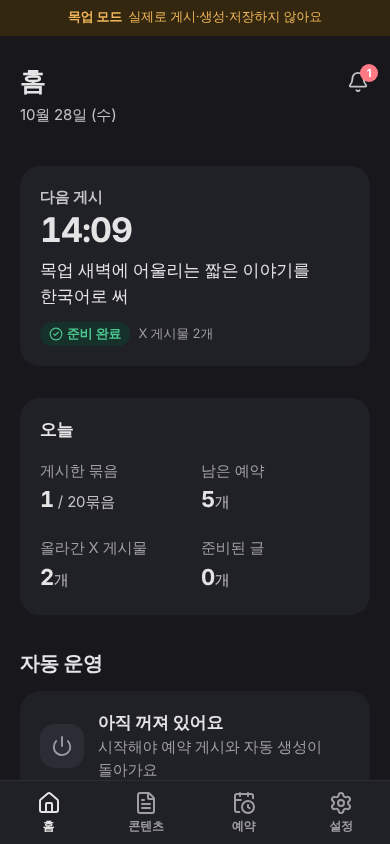
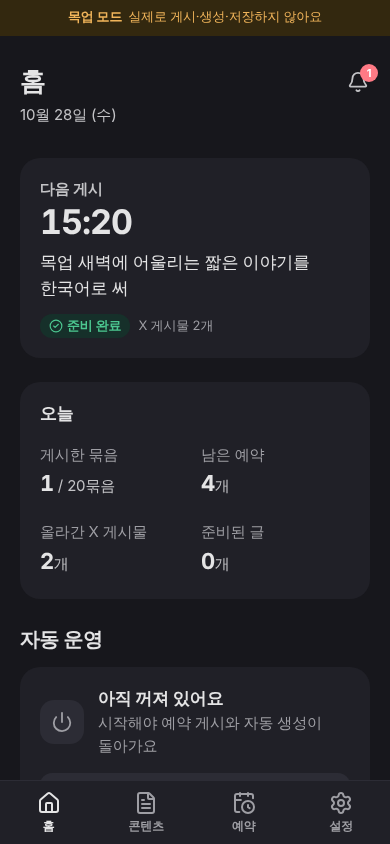
style(ui): tighten spacing between boxes to match toss density
- box gap 8px between sibling cards, section gap 24px, 12px from section title to first box
- page header bottom padding 16px
- applied to home, contents, prompts, notifications, publish, schedule, editors and settings
- form field spacing inside cards unchanged; docs and screenshots updated

Claude-Session: https://claude.ai/code/session_018SpKgr9AwCoaoUHNTZen1j

diff --git a/web/src/pages/home/HomePage.module.css b/web/src/pages/home/HomePage.module.css
@@ -1,11 +1,11 @@
 .stack {
   display: flex;
   flex-direction: column;
-  gap: var(--space-3);
+  gap: var(--box-gap);
 }
-/* 카드 사이는 12px, 제목이 있는 영역 앞은 32px */
+/* 카드 사이는 8px, 제목이 있는 영역 앞은 24px */
 .stack > section {
-  margin-top: calc(var(--section-gap) - var(--space-3));
+  margin-top: calc(var(--section-gap) - var(--box-gap));
 }
 .muted {
   color: var(--text-3);
@@ -207,7 +207,7 @@
 .quick {
   display: grid;
   grid-template-columns: repeat(2, minmax(0, 1fr));
-  gap: var(--space-3);
+  gap: var(--box-gap);
 }
 .tile {
   display: flex;

diff --git a/web/src/components/layout/AppShell.module.css b/web/src/components/layout/AppShell.module.css
@@ -76,7 +76,7 @@
 }
 /* 탭 화면 머리: 제목 줄(제목 ↔ 행동·알림) + 설명 */
 .header {
-  padding: var(--space-4) 0 var(--space-5);
+  padding: var(--space-4) 0 var(--space-4);
   padding-top: max(var(--space-4), env(safe-area-inset-top));
 }
 .headRow {
@@ -88,7 +88,7 @@
 }
 /* 하위 화면 머리: 내비게이션 줄 → 큰 제목 → 설명 (모두 왼쪽 여백에 맞춤) */
 .subHeader {
-  padding-bottom: var(--space-5);
+  padding-bottom: var(--space-4);
   padding-top: env(safe-area-inset-top);
 }
 .navRow {

diff --git a/web/src/styles/tokens.css b/web/src/styles/tokens.css
@@ -51,7 +51,8 @@
 
   --gutter: 20px;
   --card-pad: 20px;            /* 카드 안쪽 여백. 카드 안 목록 행도 이 값에 맞춘다 */
-  --section-gap: 32px;         /* 화면 안 큰 영역 사이 */
+  --box-gap: 8px;              /* 나란히 놓인 카드·상자 사이 (토스처럼 촘촘하게) */
+  --section-gap: 24px;         /* 제목이 있는 영역 사이 */
   --content-max: 1100px;
   --tabbar-h: 64px;
   --header-h: 56px;

diff --git a/web/src/components/ui/Card.module.css b/web/src/components/ui/Card.module.css
@@ -31,12 +31,14 @@
 .section {
   display: flex;
   flex-direction: column;
-  gap: var(--space-3);
+  gap: var(--box-gap);
 }
+/* 제목 ↔ 첫 상자 12px, 상자끼리 8px */
 .sectionHeader {
   display: flex;
   flex-direction: column;
   gap: 4px;
+  margin-bottom: 4px;
 }
 .sectionHead {
   display: flex;

diff --git a/web/src/pages/publish/PublishPage.module.css b/web/src/pages/publish/PublishPage.module.css
@@ -1,7 +1,7 @@
 .stack {
   display: flex;
   flex-direction: column;
-  gap: var(--space-5);
+  gap: var(--section-gap);
 }
 .run {
   display: flex;
@@ -9,7 +9,7 @@
   gap: var(--space-3);
 }
 .run + .run {
-  margin-top: var(--space-3);
+  margin-top: 0;
 }
 .head {
   display: flex;

diff --git a/web/src/pages/settings/ConnectionsPage.module.css b/web/src/pages/settings/ConnectionsPage.module.css
@@ -1,10 +1,10 @@
 .stack {
   display: flex;
   flex-direction: column;
-  gap: var(--space-3);
+  gap: var(--box-gap);
 }
 .stack > section {
-  margin-top: calc(var(--section-gap) - var(--space-3));
+  margin-top: calc(var(--section-gap) - var(--box-gap));
 }
 .row {
   display: flex;

diff --git a/web/src/pages/contents/ContentEditorPage.module.css b/web/src/pages/contents/ContentEditorPage.module.css
@@ -33,7 +33,7 @@
 }
 .grid {
   display: grid;
-  gap: var(--space-4);
+  gap: var(--box-gap);
 }
 @media (min-width: 1024px) {
   .grid {
@@ -48,7 +48,7 @@
 .col {
   display: flex;
   flex-direction: column;
-  gap: var(--space-4);
+  gap: var(--box-gap);
   min-width: 0;
 }
 .form {

diff --git a/web/src/pages/prompts/PromptEditorPage.module.css b/web/src/pages/prompts/PromptEditorPage.module.css
@@ -5,7 +5,7 @@
 }
 .grid {
   display: grid;
-  gap: var(--space-4);
+  gap: var(--box-gap);
 }
 @media (min-width: 1024px) {
   .grid {
@@ -16,7 +16,7 @@
 .col {
   display: flex;
   flex-direction: column;
-  gap: var(--space-4);
+  gap: var(--box-gap);
   min-width: 0;
 }
 .form {

diff --git a/web/src/pages/contents/ContentsPage.module.css b/web/src/pages/contents/ContentsPage.module.css
@@ -30,7 +30,7 @@
   margin: 0;
   padding: 0;
   display: grid;
-  gap: var(--space-3);
+  gap: var(--box-gap);
 }
 @media (min-width: 1024px) {
   .list {

diff --git a/web/src/pages/prompts/PromptsPage.module.css b/web/src/pages/prompts/PromptsPage.module.css
@@ -6,7 +6,7 @@
   margin: 0;
   padding: 0;
   display: grid;
-  gap: var(--space-3);
+  gap: var(--box-gap);
 }
 @media (min-width: 1024px) {
   .list {

diff --git a/web/src/pages/NotificationsPage.module.css b/web/src/pages/NotificationsPage.module.css
@@ -7,7 +7,7 @@
   padding: 0;
   display: flex;
   flex-direction: column;
-  gap: var(--space-3);
+  gap: var(--box-gap);
 }
 .item {
   width: 100%;

diff --git a/web/src/pages/schedule/SchedulePage.module.css b/web/src/pages/schedule/SchedulePage.module.css
@@ -7,7 +7,7 @@
 .stack {
   display: flex;
   flex-direction: column;
-  gap: var(--space-5);
+  gap: var(--space-4);
 }
 .form {
   display: flex;
